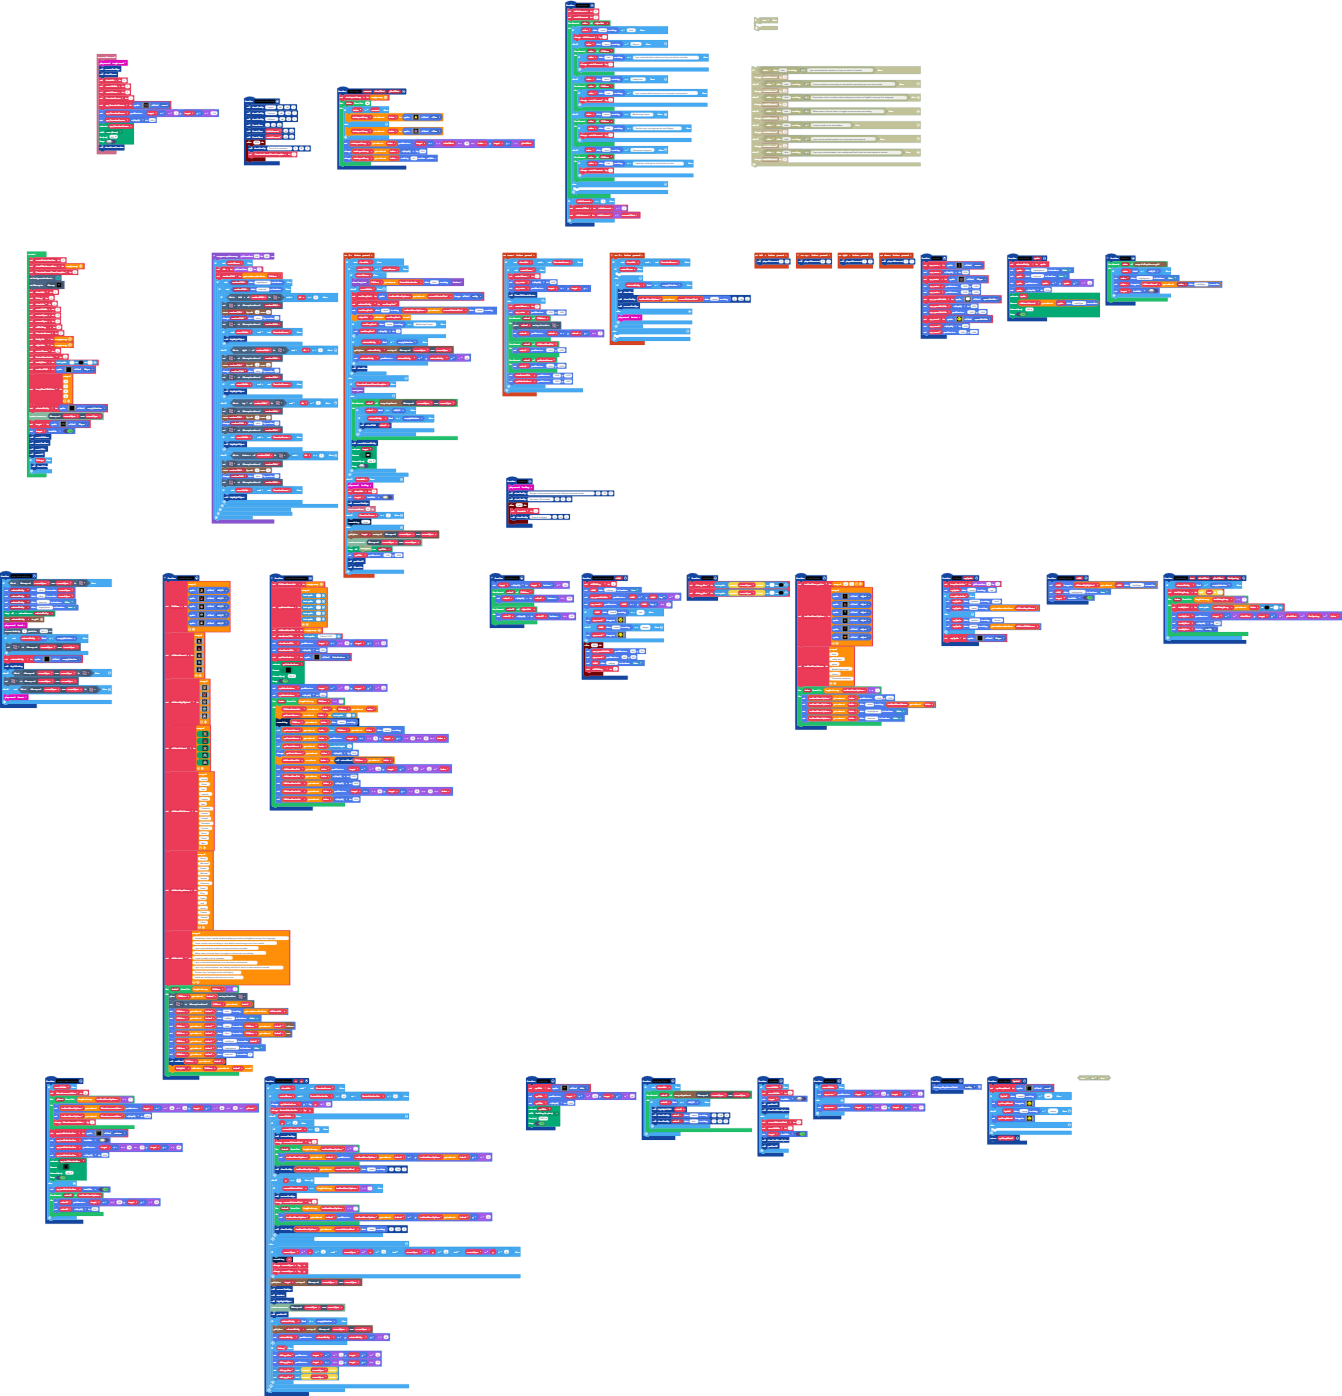
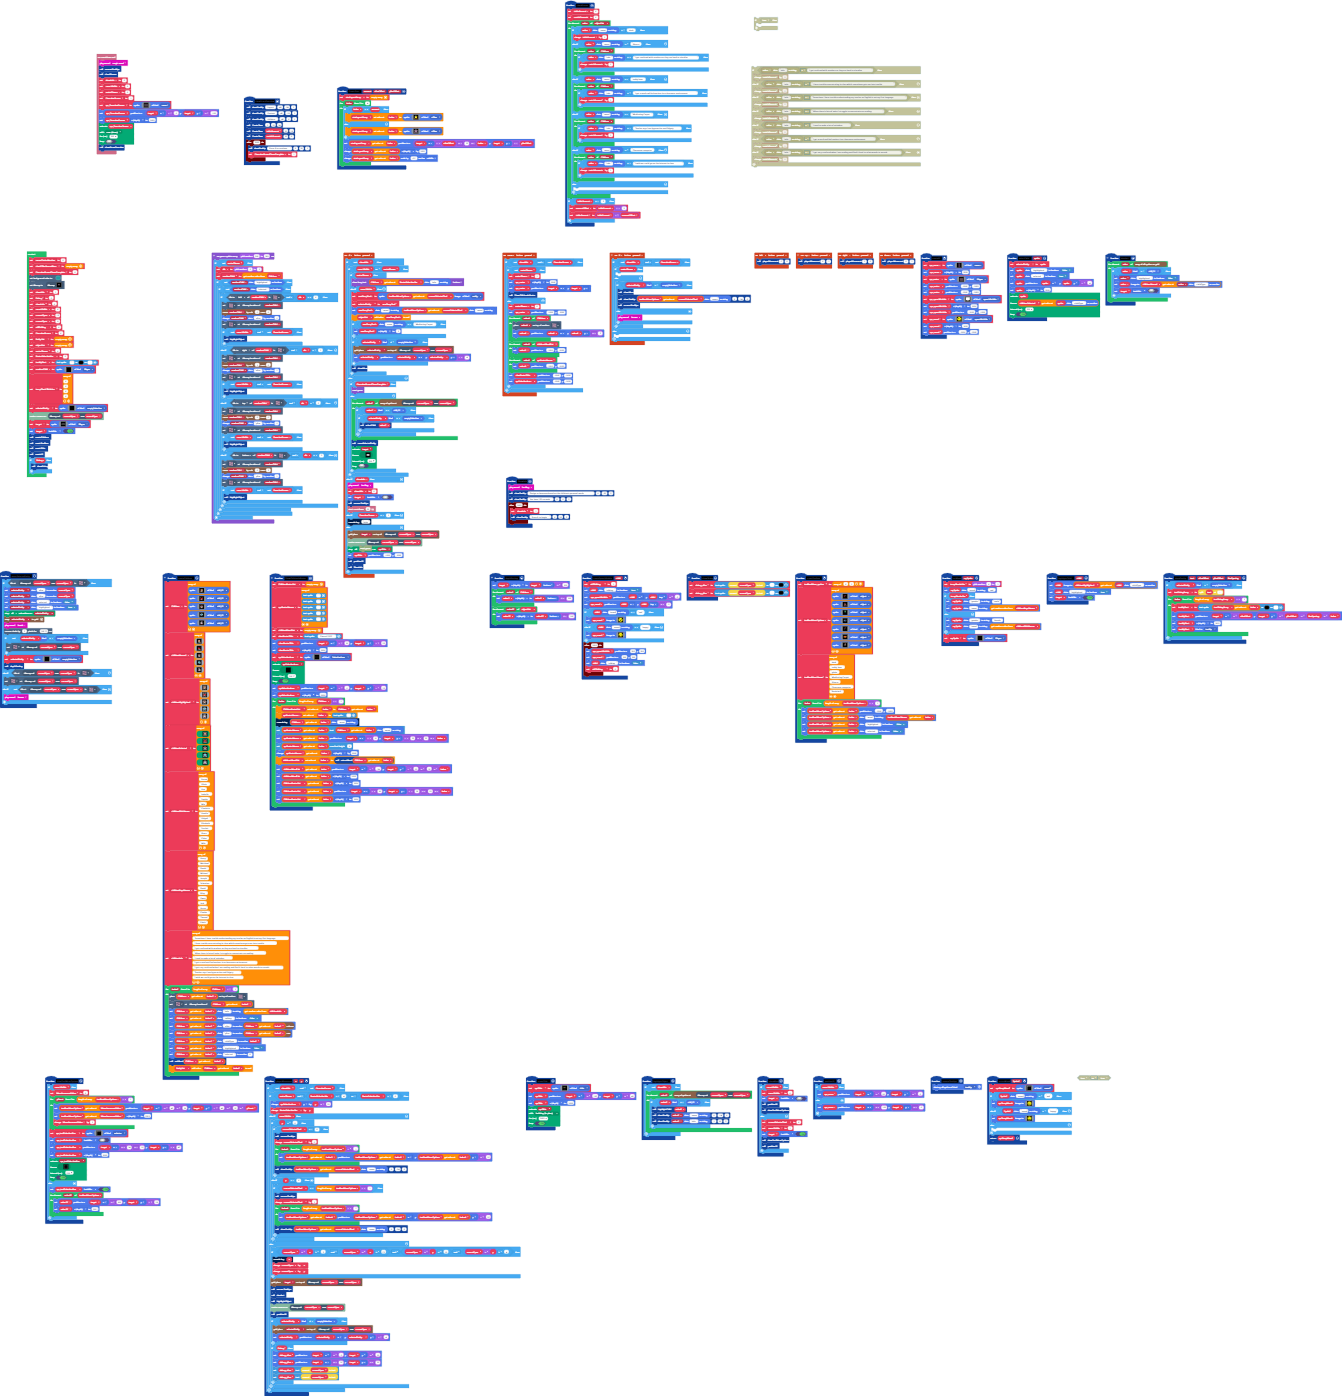
bookcase fix

Changed region(s): [[0.5805, 0.462, 0.7027, 0.5544]]

diff --git a/images.g.ts b/images.g.ts
@@ -224,17 +224,6 @@ cccccccccccccccccccccccccccccccccccccccccccccccccccccccccccc
 . 5 f 5 5 f 5 . 
 . . 5 5 5 5 . . 
 `;
-            case "image21":
-            case "cursor4":return img`
-. . . . . . . 9 9 . . . . . . . 
-. . . . . 9 9 9 9 9 9 . . . . . 
-. . 9 9 9 9 9 9 9 9 9 9 9 9 . . 
-. 9 9 9 9 9 9 9 9 9 9 9 9 9 9 . 
-9 9 9 9 9 9 9 9 9 9 9 9 9 9 9 9 
-. . 9 9 9 9 9 9 9 9 9 9 9 9 . . 
-. . . . . 9 9 9 9 9 9 . . . . . 
-. . . . . . . 9 9 . . . . . . . 
-`;
             case "image22":
             case "cursor5":return img`
 . . . . . . . 4 4 . . . . . . . 
@@ -1397,6 +1386,52 @@ b b b b b b b b b b b b b b b b
 . b b b b b b . . b b b b b b . 
 . b b b b . . . . . . b b b b . 
 . . b b . . . . . . . . b b . . 
+`;
+            case "image21":
+            case "cursor4":return img`
+. . . . . . . 9 9 . . . . . . . 
+. . . . . 9 9 9 9 9 9 . . . . . 
+. . 9 9 9 9 9 9 9 9 9 9 9 9 . . 
+. 9 9 9 9 9 9 9 9 9 9 9 9 9 9 . 
+9 9 9 9 9 9 9 9 9 9 9 9 9 9 9 9 
+. . 9 9 9 9 9 9 9 9 9 9 9 9 . . 
+. . . . . 9 9 9 9 9 9 . . . . . 
+. . . . . . . 9 9 . . . . . . . 
+`;
+            case "image40":
+            case "cursor10":return img`
+................................
+...................fff..........
+.................ffeeef.........
+...............ffeeeeeef........
+..............feeeeeebcf........
+............feeeeeebbcef........
+..........feeeeeebbcc7cf........
+.........feeeeeebcc967ef........
+.........feeeebcc64967cf........
+.........feeebc9464967ef........
+.........feeec79464967cf........
+.........feeef794649ecef........
+.........feeef7946cecccf........
+.........feeef794ecc46ef........
+.........feeef79cc3646cf........
+.........feeefcec73646ef........
+.........feeefcc673646cf........
+.........feeef46673646ef........
+.........feeef466736cecc........
+.........feeef46673eccc.........
+.........feeef4667cc............
+.........ceeef46cec.............
+..........ceeececc..............
+...........ccecc................
+.............c..................
+................................
+................................
+................................
+................................
+................................
+................................
+................................
 `;
         }
         return null;

diff --git a/main.ts b/main.ts
@@ -346,7 +346,8 @@ function createToolbox () {
     sprites.create(assets.image`cursor2`, SpriteKind.object),
     sprites.create(assets.image`cursor3`, SpriteKind.object),
     sprites.create(assets.image`cursor9`, SpriteKind.object),
-    sprites.create(assets.image`cursor5`, SpriteKind.object)
+    sprites.create(assets.image`cursor5`, SpriteKind.object),
+    sprites.create(assets.image`cursor10`, SpriteKind.object)
     ]
     toolboxMenuNames = [
     "desk",
@@ -354,7 +355,8 @@ function createToolbox () {
     "globe",
     "Meditating Carpet",
     "Abacus",
-    "Classroom computer"
+    "Classroom computer",
+    "Bookshelf"
     ]
     for (let index = 0; index <= toolboxMenuOptions.length - 1; index++) {
         toolboxMenuOptions[index].setPosition(-1000, -1000)
